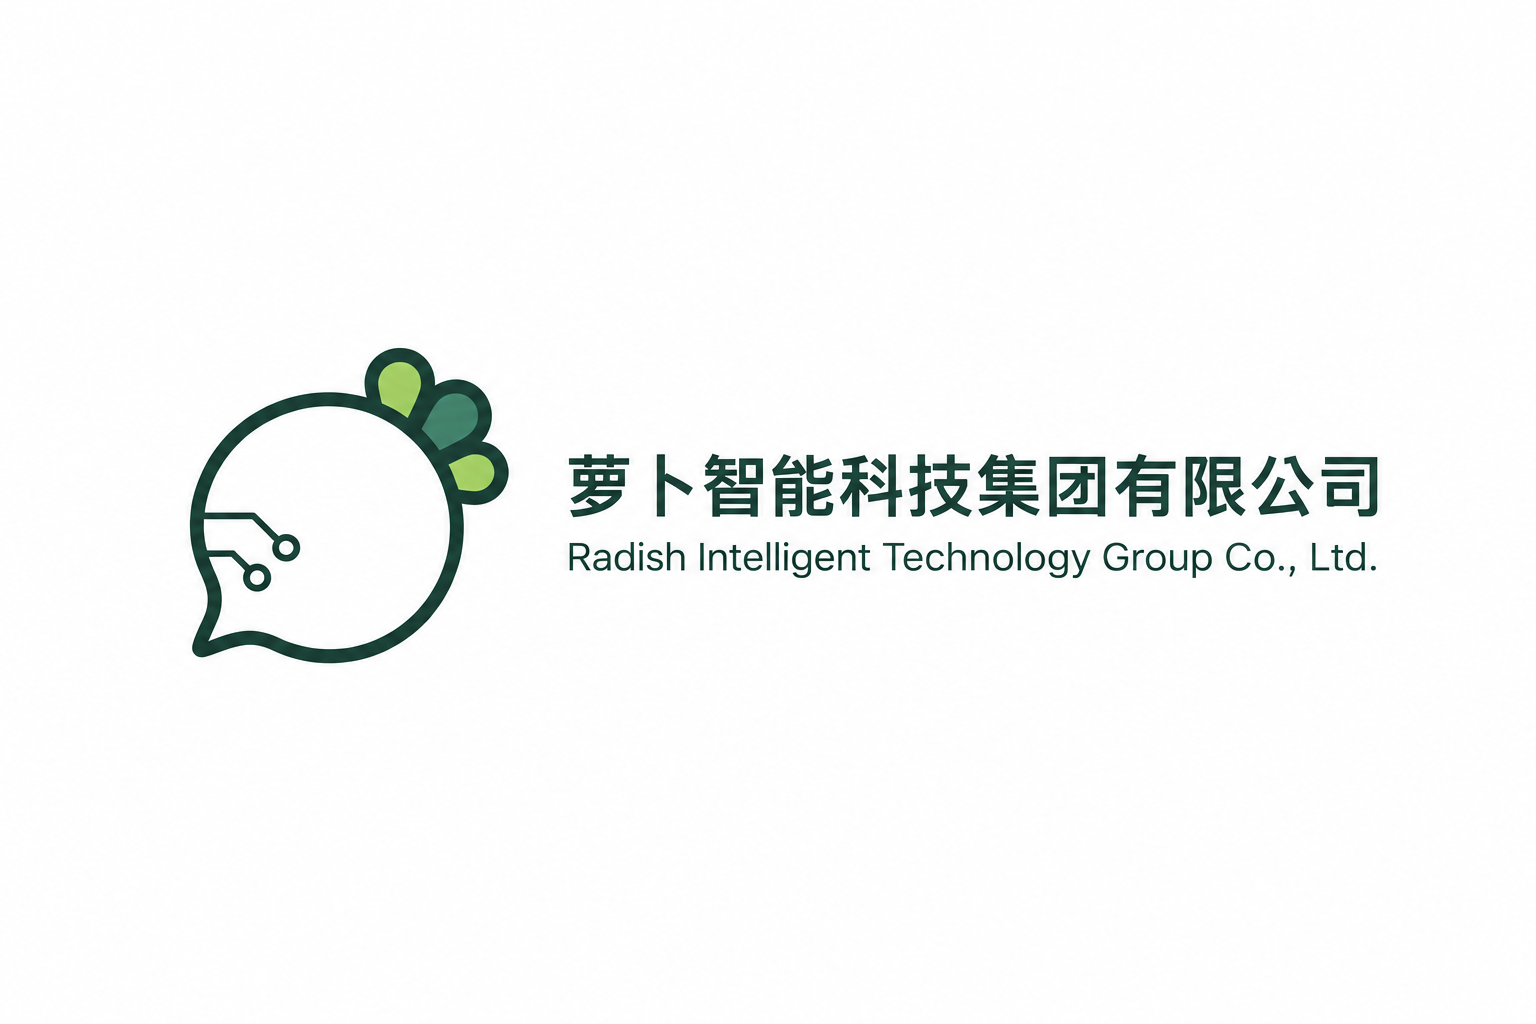
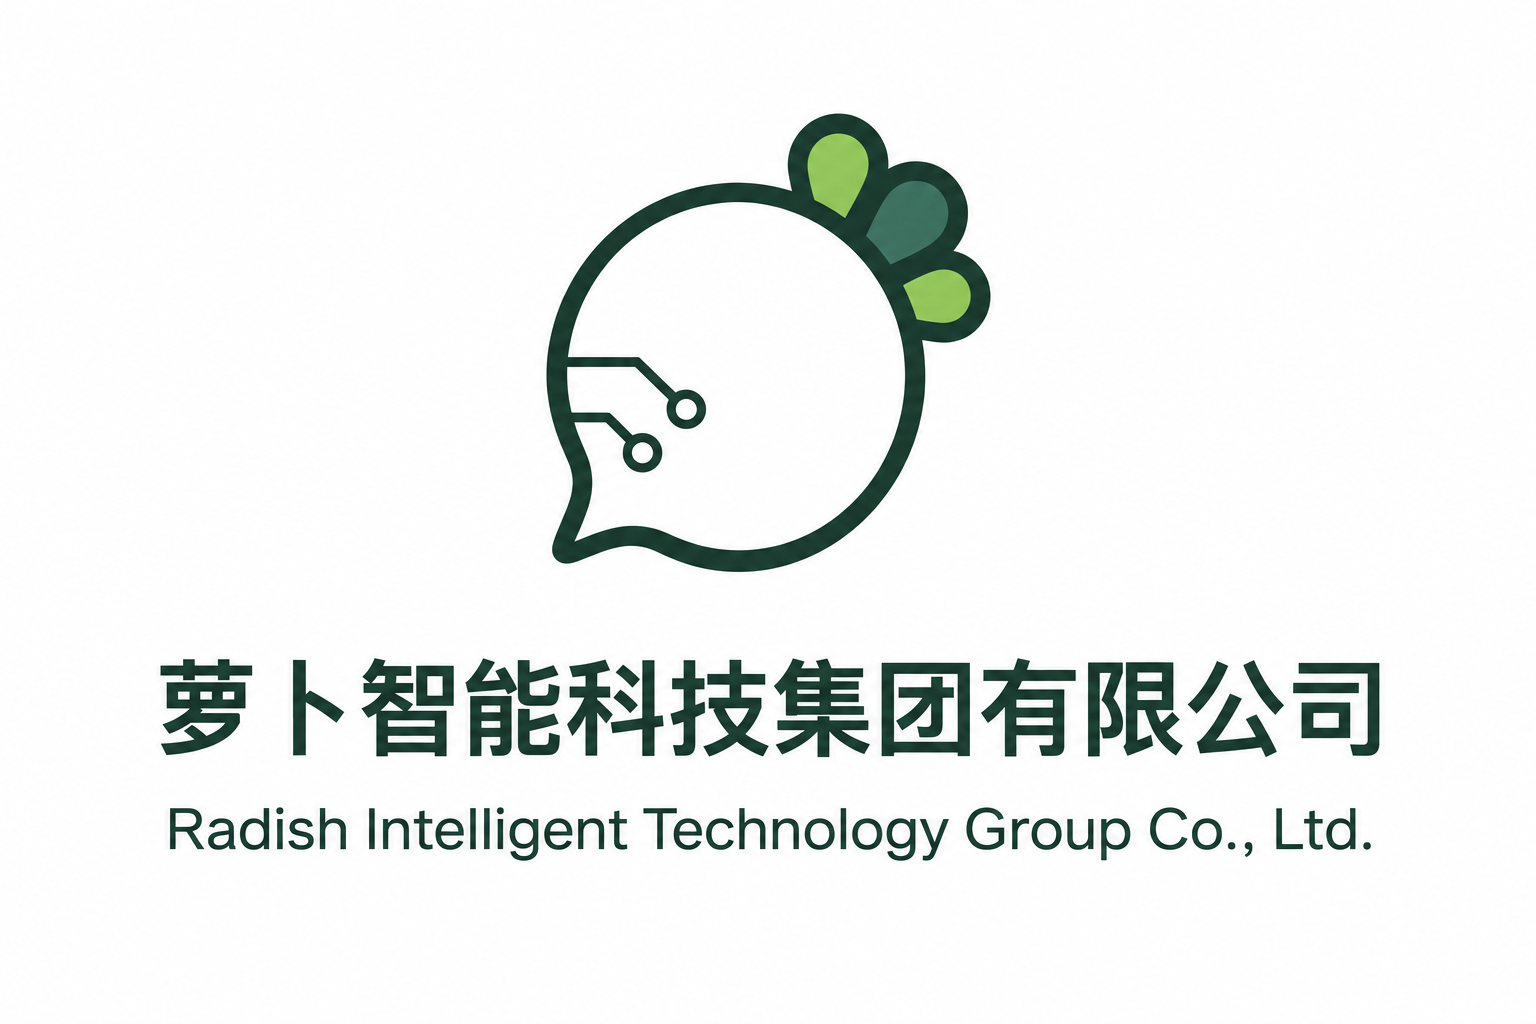
style: 保留品牌上下与左右构图并补充深色样张

Changed region(s): [[0.0938, 0.0938, 0.9062, 0.75], [0.0938, 0.7812, 0.9062, 0.8438]]

diff --git a/README.md b/README.md
@@ -21,7 +21,11 @@
 
 原始组合图沿用 RadishX 的 `assets/brand/radish-intelligence/selected-v9/company-lockup.png`，以原始 PNG 副本 `profile/assets/company-lockup-v9.png` 保存在本仓库，未裁切、压缩或重新生成。2026-10-01 按所有者要求用于本仓库与组织主页说明。
 
-2026-11-02 按所有者要求，使用内置 imagegen 基于 V9 组合图与提供的参考图制作 3:2 展示版（1536 × 1024），调整图形、文字的相对尺寸、间距与四周留白。两份 README 共用该展示版；原始组合图保留，V9 暂定基准不变。以上展示不授予第三方素材复用权利。
+2026-11-02 按所有者要求，使用内置 imagegen 基于 V9 组合图制作 3:2 展示版（1536 × 1024）：Logo 居中置于上方，中英文全名在下方居中排列，放大文字并缩减上下空白，保留四周安全边距。两份 README 共用该展示版；原始组合图保留，V9 暂定基准不变。以上展示不授予第三方素材复用权利。
+
+2026-11-03 使用内置 imagegen 另制作独立的 3:2 左右版（1536 × 1024）：Logo 在左，公司名在右，中文分两行、英文分三行，使文字块与 Logo 高度接近。所有者已确认保留亮色上下版和左右版，组织主页使用亮色上下版。
+
+同日基于两款已确认构图，使用内置 imagegen 各制作一张独立的深色模式样张，均为 1536 × 1024（3:2）。深色样张采用墨绿色背景、浅色文字与 Logo 轮廓，保留绿色叶片，沿用对应亮色版的排布与留白。
 
 ## 文件用途
 
@@ -30,7 +34,10 @@
 | `README.md` | 说明本仓库的结构与维护方式，展示在仓库首页。 |
 | `profile/README.md` | 面向访客的组织介绍，展示在 GitHub 组织的 Overview 页面。 |
 | `profile/assets/company-lockup-v9.png` | 保留的 V9 Logo 与拟用中英文公司名称原始组合图（2400 × 1200）。 |
-| `profile/assets/company-lockup-v9-profile-3x2.png` | 两份 README 共用的 3:2 展示版（1536 × 1024）。 |
+| `profile/assets/company-lockup-v9-profile-3x2.png` | 两份 README 共用的 3:2 亮色上下展示版（1536 × 1024），所有者已确认使用。 |
+| `profile/assets/company-lockup-v9-profile-horizontal-3x2.png` | 独立的 3:2 亮色左右展示版（1536 × 1024），所有者已确认保留。 |
+| `profile/assets/company-lockup-v9-profile-dark-3x2.png` | 3:2 深色上下版样张（1536 × 1024）。 |
+| `profile/assets/company-lockup-v9-profile-horizontal-dark-3x2.png` | 3:2 深色左右版样张（1536 × 1024）。 |
 
 当前仓库维护以上两份说明文档及配套品牌展示图片，尚未提供组织级 Issue 模板、Pull Request 模板或其他公共协作配置。
 
@@ -45,7 +52,10 @@ RadishIntelligence-Profile/
     ├── README.md
     └── assets/
         ├── company-lockup-v9.png
-        └── company-lockup-v9-profile-3x2.png
+        ├── company-lockup-v9-profile-3x2.png
+        ├── company-lockup-v9-profile-horizontal-3x2.png
+        ├── company-lockup-v9-profile-dark-3x2.png
+        └── company-lockup-v9-profile-horizontal-dark-3x2.png
 ```
 
 组织主页使用公开 `.github` 仓库中的 `profile/README.md`。更新后需提交并推送到远程默认分支，才会更新线上展示。展示规则见 [GitHub 官方文档](https://docs.github.com/en/organizations/collaborating-with-groups-in-organizations/customizing-your-organizations-profile)。
